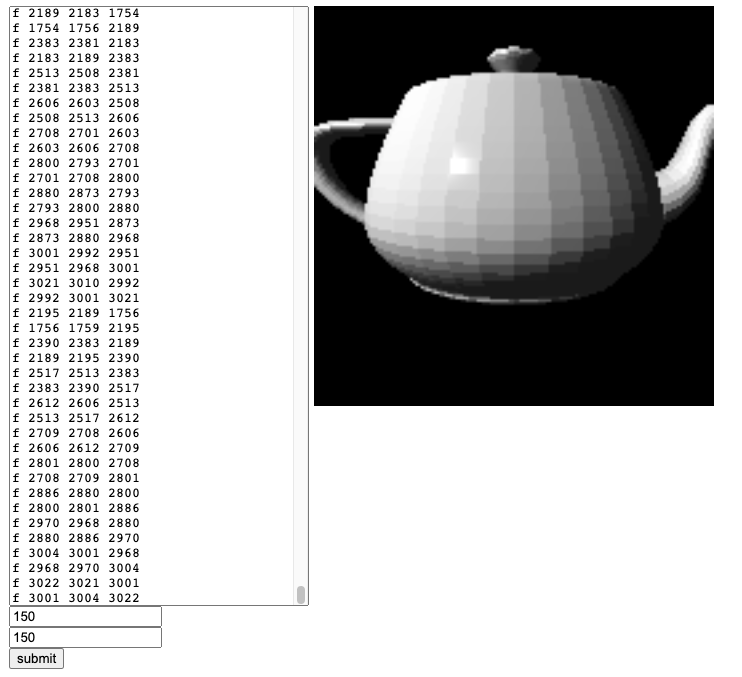
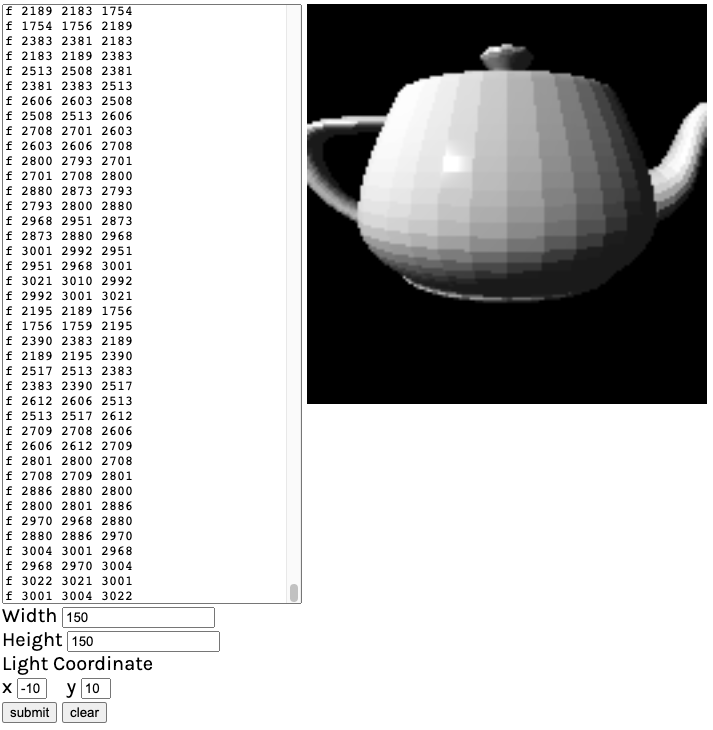
added custom light coord ui

diff --git a/render.html b/render.html
@@ -16,7 +16,7 @@
             <div>
                 <h2>Render an obj file</h2>
                 
-                <textarea id="objString" placeholder="Enter obj content"></textarea>
+                <textarea id="obj-string" placeholder="Enter obj content"></textarea>
                 <canvas id="picture" width="100" height="50"></canvas>
             </div>
             <div>
@@ -24,16 +24,23 @@
                 <input name="width", id="width" type="text"><br>
                 <label for="height">Height</label>
                 <input name="height" id="height" type="text"><br>
+                <div>Light Coordinate</div>
+                <label for="light-x">x</label>
+                <input id="light-x" class="light-coord" type="text">
+                <label for="light-y">y</label>
+                <input id="light-y" class="light-coord" type="text"><br>
                 <input id="button" type="submit" name="button"
-                    onclick="render(document.getElementById('width').value, document.getElementById('height').value);"
+                    onclick="render(document.getElementById('width').value, 
+                    document.getElementById('height').value, 
+                    [document.getElementById('light-x').value, document.getElementById('light-y').value]);"
                     value="submit" />
                 <input id="button" type="submit" name="clear" value="clear" onclick="reload()"/>
             </div>
         </div>
 
         <div id="examples">
-            <h2>Examples</h4>
                 <div>
+                    <h2>Examples</h4>
                     <a href="https://people.sc.fsu.edu/~jburkardt/data/obj/gourd.obj">Gourd</a><br/>
                     <a href="https://people.sc.fsu.edu/~jburkardt/data/obj/dodecahedron.obj">Dodecahedron</a><br/>
                     <a href="https://groups.csail.mit.edu/graphics/classes/6.837/F03/models/teapot.obj">Teapot</a>

diff --git a/render.js b/render.js
@@ -740,9 +740,9 @@ function main(fileName) {
     var canvas = camera.render(world);
     canvas.write("out/" + fileName + ".bmp");
 }
-function create(data, width, height, f) {
+function create(data, width, height, lightCoord, f) {
     var triangles = getTrianglesFromString(data);
-    var worldLight = new PointLight(newPoint(-10, 10, -10), newColor(1, 1, 1));
+    var worldLight = new PointLight(newPoint(lightCoord[0], lightCoord[1], -10), newColor(1, 1, 1));
     var world = new World(worldLight, triangles);
     var camera = newCamera(width, height, Math.PI / 3);
     camera.transform = viewTransform(newPoint(0, 1.5, -5), newPoint(0, 1, 0), newVector(0, 1, 0));

diff --git a/renderPage.js b/renderPage.js
@@ -1,11 +1,11 @@
 
-function render(width, height) {
-    const txt = document.getElementById('objString').value;
+function render(width, height, lightCoord) {
+    const txt = document.getElementById('obj-string').value;
     const canvas = document.getElementById('picture');
     canvas.width = width;
     canvas.height = height;
     const context = canvas.getContext('2d');
-    create(txt, width, height, (x, y, color) => {
+    create(txt, width, height, [+lightCoord[0], +lightCoord[1]], (x, y, color) => {
         context.fillStyle = `rgba(${color.x * 255}, ${color.y * 255}, ${color.z * 255}, 1)`;
         context.fillRect(x, y, 1, 1);
     });

diff --git a/render.css b/render.css
@@ -8,6 +8,10 @@ textarea {
     height:600;
     width: 300;
     resize:none;
-    display: inline-block
+    display: inline-block;
+}
 
+.light-coord {
+    width: 30;
+    margin-right: 15px;
 }
